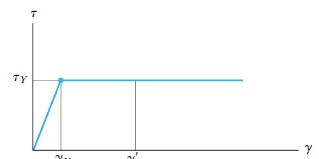
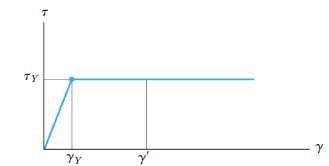
qwer

Changed region(s): [[0.0282, 0.1258, 0.9875, 1.0], [0.0846, 0.0503, 0.1693, 0.1006]]

diff --git a/_posts/2019-01-11-mechanics-of-materials-5.md b/_posts/2019-01-11-mechanics-of-materials-5.md
@@ -327,7 +327,7 @@ If the area $dA$ over which $\tau$ acts is defined as a differential ring having
 
 ![useful image](https://raw.githubusercontent.com/brandonkim12/brandonkim12.github.io/master/assets/mechanics_of_materials/fig_66.JPG)
 
-<center>Fig. 5.18. Diagram For the Formula (5.22.)</center>
+<center>Fig. 5.19. Diagram For the Formula (5.22.)</center>
 
 $$T = 2\pi \int_0^c \tau \rho^2 d\rho$$
 
@@ -335,7 +335,15 @@ We will now apply this equation to a shaft that is subjected to two types of tor
 
 * **Elastic-Plastic Torque.**
 
-Let us consider the material in the shaft to exhibit an elastic perfectly plastic behavior, as shown in Fig. 5–33a.
+Let us consider the material in the shaft to exhibit an elastic perfectly plastic behavior, as shown in [Fig. 5.20.].
+
+![useful image](https://raw.githubusercontent.com/brandonkim12/brandonkim12.github.io/master/assets/mechanics_of_materials/fig_67.JPG)
+
+<center>5.20 Stress-Strain Diagram for the Elasto-Plastic</center>
+
+Recall that 
+
+$$\tau_{\text{max}}=\frac{Tc}{J} \tag{5.6.}$$
 
 
 
